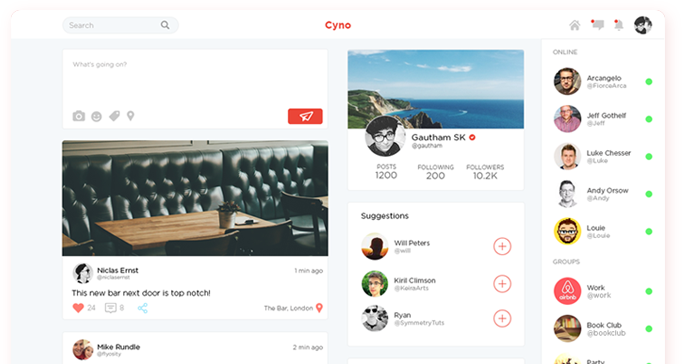
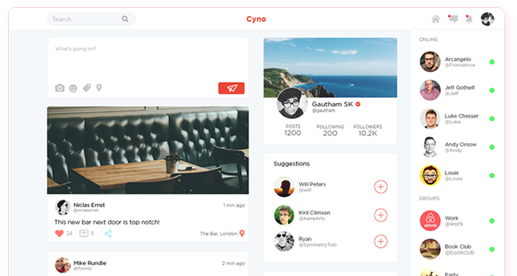
Fix image scaling

Changed region(s): [[0.0309, 0.0, 0.9594, 0.029]]

diff --git a/css/main.css b/css/main.css
@@ -15,6 +15,10 @@ html, body {
 	-moz-osx-font-smoothing: grayscale;
 }
 
+img {
+	max-width: 100% !important;
+}
+
 @-ms-viewport{
   width: device-width;
 }
@@ -110,32 +114,43 @@ p {
 
 /*BACKGROUND COLOURS*/
 
-.work_1 {
-	height: 50vh;
-	background: #fc7373;
+.work_1,
+.work_2,
+.work_3 {
 	color: #fff;
+	min-height: 350px;
+}
+
+.work_1 {
+	background: #fc7373;
 }
 
 .work_2 {
-	height: 50vh;
 	background: #7376fc;
-	color: #fff;
 }
 
 .work_3 {
-	height: 50vh;
 	background: #e4e4e4;
-	color: #000;
+	color: black;
+}
+
+.image_1 {
+	margin-top: 100px;
+}
+
+.image_2 {
+	margin-top: 30px;
+}
+
+.image_3 {
+	margin-top: 50px;
 }
 
 /* LAYOUT */
-
 .work_flex {
-	height: 100%;
 	display: flex;
 	justify-content: space-between;
 	align-items: center;
-	overflow: auto;
 }
 
 .reverse {
@@ -152,31 +167,11 @@ p {
 	text-align: right;
 }
 
-.image {
-	align-self: flex-end;
-	padding: 0;
-}
-
-.image_1 {
-	width: 50%;
-}
-
-.image_2 {
-	width: 25%;
-}
-
-.image_3 {
-	width: 45%;
-}
-
-
-
 @media (max-width:680px) {
-
 	.container {
 		padding: 0 25px;
 	}
-	
+
 	/* MOVILE NAVIGATION */
 	.nav ul {
 		justify-content: center;
@@ -187,14 +182,13 @@ p {
 		margin-left: 0;
 		padding: 20px;
 	}
-	
+
 	/* MOBILE MAIN */
 	.main_text h1 {
 		font-size: 30px;
 	}
-	
-	/* MOBILE WORK*/
 
+	/* MOBILE WORK*/
 	p {
 		font-size: 13px;
 		text-align: center;
@@ -205,7 +199,7 @@ p {
 		font-size: 20px;
 		text-align: center;
 	}
-	
+
 	.work_flex {
 		flex-direction: column;
 	}
@@ -218,26 +212,8 @@ p {
 		width: 70%;
 		text-align: center;
 	}
-	
+
 	.reverse {
 		flex-direction: column;
-	}
-
-	.image_1 {
-		width: 50%;
-		height: auto;
-		align-self: center;
-	}
-
-	.image_2 {
-		width: 30%;
-		height: auto;
-		align-self: center;
-	}
-
-	.image_3 {
-		width: 55%;
-		height: auto;
-		align-self: center;
 	}
 }

diff --git a/index.html b/index.html
@@ -9,7 +9,6 @@
 	<meta name="description" content="Designer &amp; Front-End Developer">
 	<meta name="author" content="Gautham SK">
 
-
 	<!-- FONT -->
 	<link href='https://fonts.googleapis.com/css?family=Montserrat' rel='stylesheet' type='text/css'>
 
@@ -38,7 +37,7 @@
 
 		</div> <!-- end container -->
 	</div> <!-- end main -->
-	
+
 	<div class="work">
 		<div class="work_1">
 			<div class="work_flex container">
